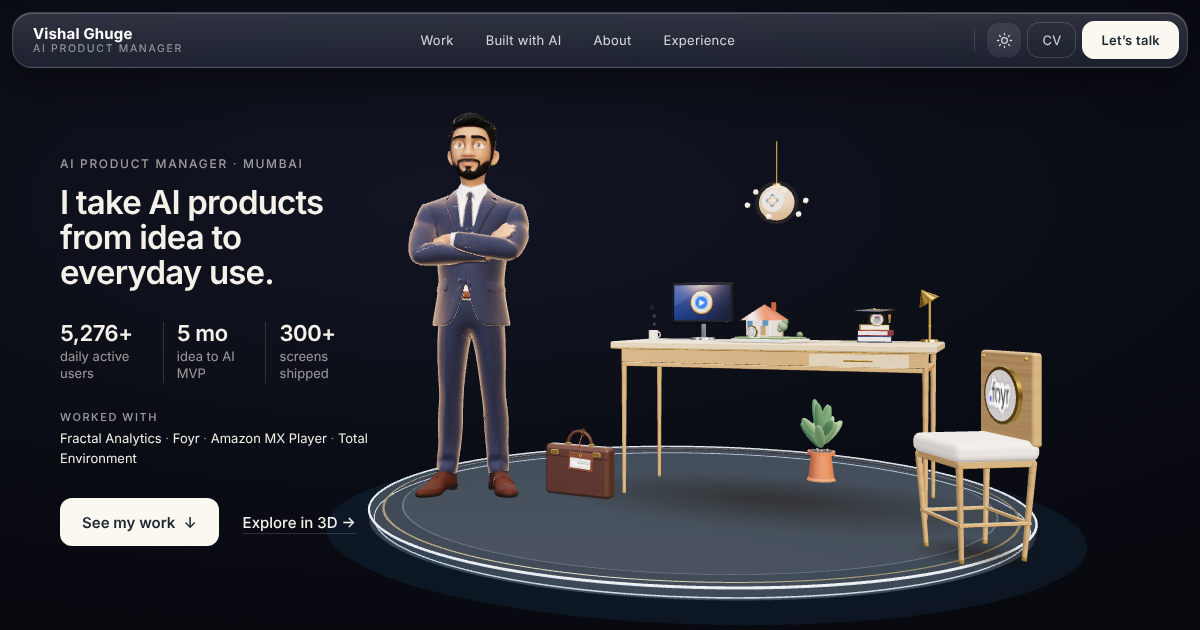
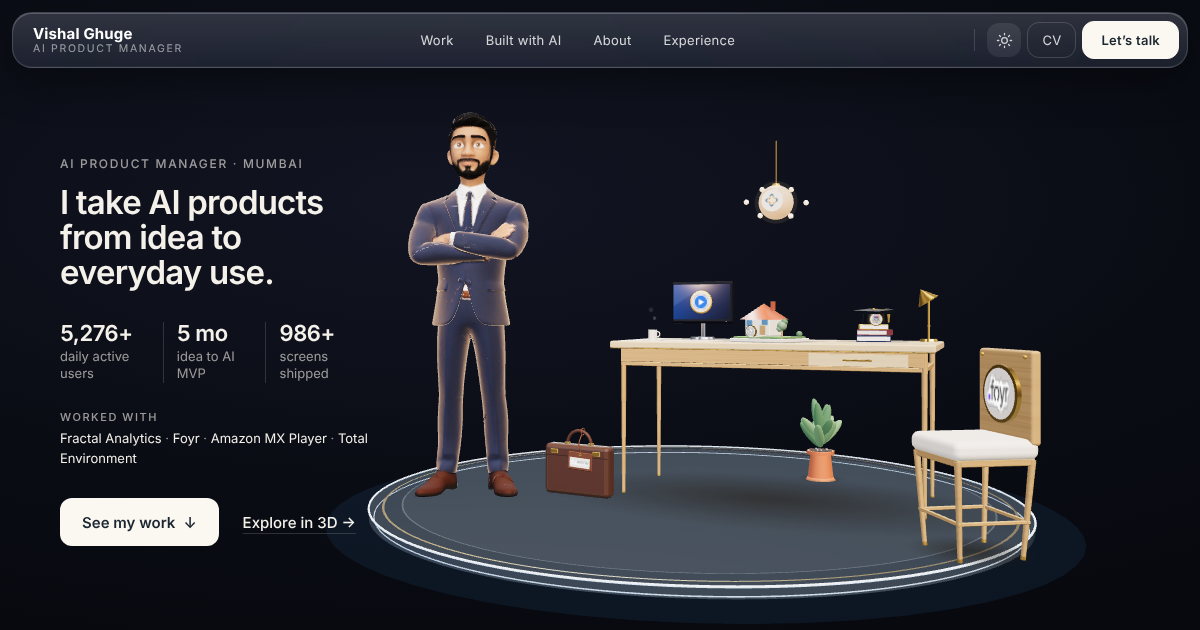
Hero: 986+ screens shipped across all products (career total, jumps to Work); Total Environment keeps its 300+ project figure
Claude-Session: https://claude.ai/code/session_01SWnfNPGbFHhiGrXWnwnedS

diff --git a/web/index.html b/web/index.html
@@ -17,7 +17,7 @@
       content="Product Manager at Fractal Analytics. Case studies: iqigai (AI staffing platform with 5,276+ daily users), a 300+ screen 3D design tool, an AI MVP in 5 months, and 56 shows live in a week at Amazon MX Player."
     />
     <meta property="og:url" content="https://vishalghuge-git.github.io/portfolio/" />
-    <meta property="og:image" content="https://vishalghuge-git.github.io/portfolio/og.png?v=14" />
+    <meta property="og:image" content="https://vishalghuge-git.github.io/portfolio/og.png?v=15" />
     <meta property="og:image:width" content="1200" />
     <meta property="og:image:height" content="630" />
     <meta property="og:image:alt" content="Vishal Ghuge's portfolio: a 3D studio with his work and case studies" />
@@ -25,7 +25,7 @@
     <meta name="twitter:card" content="summary_large_image" />
     <meta name="twitter:title" content="Vishal Ghuge · AI Product Manager" />
     <meta name="twitter:description" content="AI and SaaS products from 0 to 1. Case studies from Fractal, Foyr, Total Environment and Amazon MX Player." />
-    <meta name="twitter:image" content="https://vishalghuge-git.github.io/portfolio/og.png?v=14" />
+    <meta name="twitter:image" content="https://vishalghuge-git.github.io/portfolio/og.png?v=15" />
     <link rel="preconnect" href="https://fonts.googleapis.com" />
     <link rel="preconnect" href="https://fonts.gstatic.com" crossorigin />
     <link

diff --git a/web/src/App.tsx b/web/src/App.tsx
@@ -273,11 +273,11 @@ function RoleRotator() {
   )
 }
 
-// Proof points shown under the intro. Every figure comes from the case study it opens.
+// Proof points shown under the intro. Project figures open their case study; the career total jumps to Work.
 const PROOF = [
   { n: '5,276+', label: 'daily active users', sub: 'iqigai · AI staffing', slug: 'iqigai', logo: 'iqigai.png' },
   { n: '5 mo', label: 'idea to AI MVP', sub: 'Foyr Ideate', slug: 'foyr-ideate', logo: 'foyr.png' },
-  { n: '300+', label: 'screens shipped', sub: 'Total Environment', slug: 'total-environment', logo: 'te.png' },
+  { n: '986+', label: 'screens shipped', sub: 'across all products', slug: '', logo: '' },
 ]
 
 function Proof() {
@@ -289,10 +289,11 @@ function Proof() {
           <button
             className="hx-stat"
             onClick={() => {
-              track('proof_click', p.slug)
-              setActive(p.slug)
+              track('proof_click', p.slug || p.n)
+              if (p.slug) setActive(p.slug)
+              else jumpTo('work')
             }}
-            aria-label={`${p.n} ${p.label}, ${p.sub}. Open case study`}
+            aria-label={p.slug ? `${p.n} ${p.label}, ${p.sub}. Open case study` : `${p.n} ${p.label} ${p.sub}. See my work`}
           >
             <b>{p.n}</b>
             <span>{p.label}</span>
